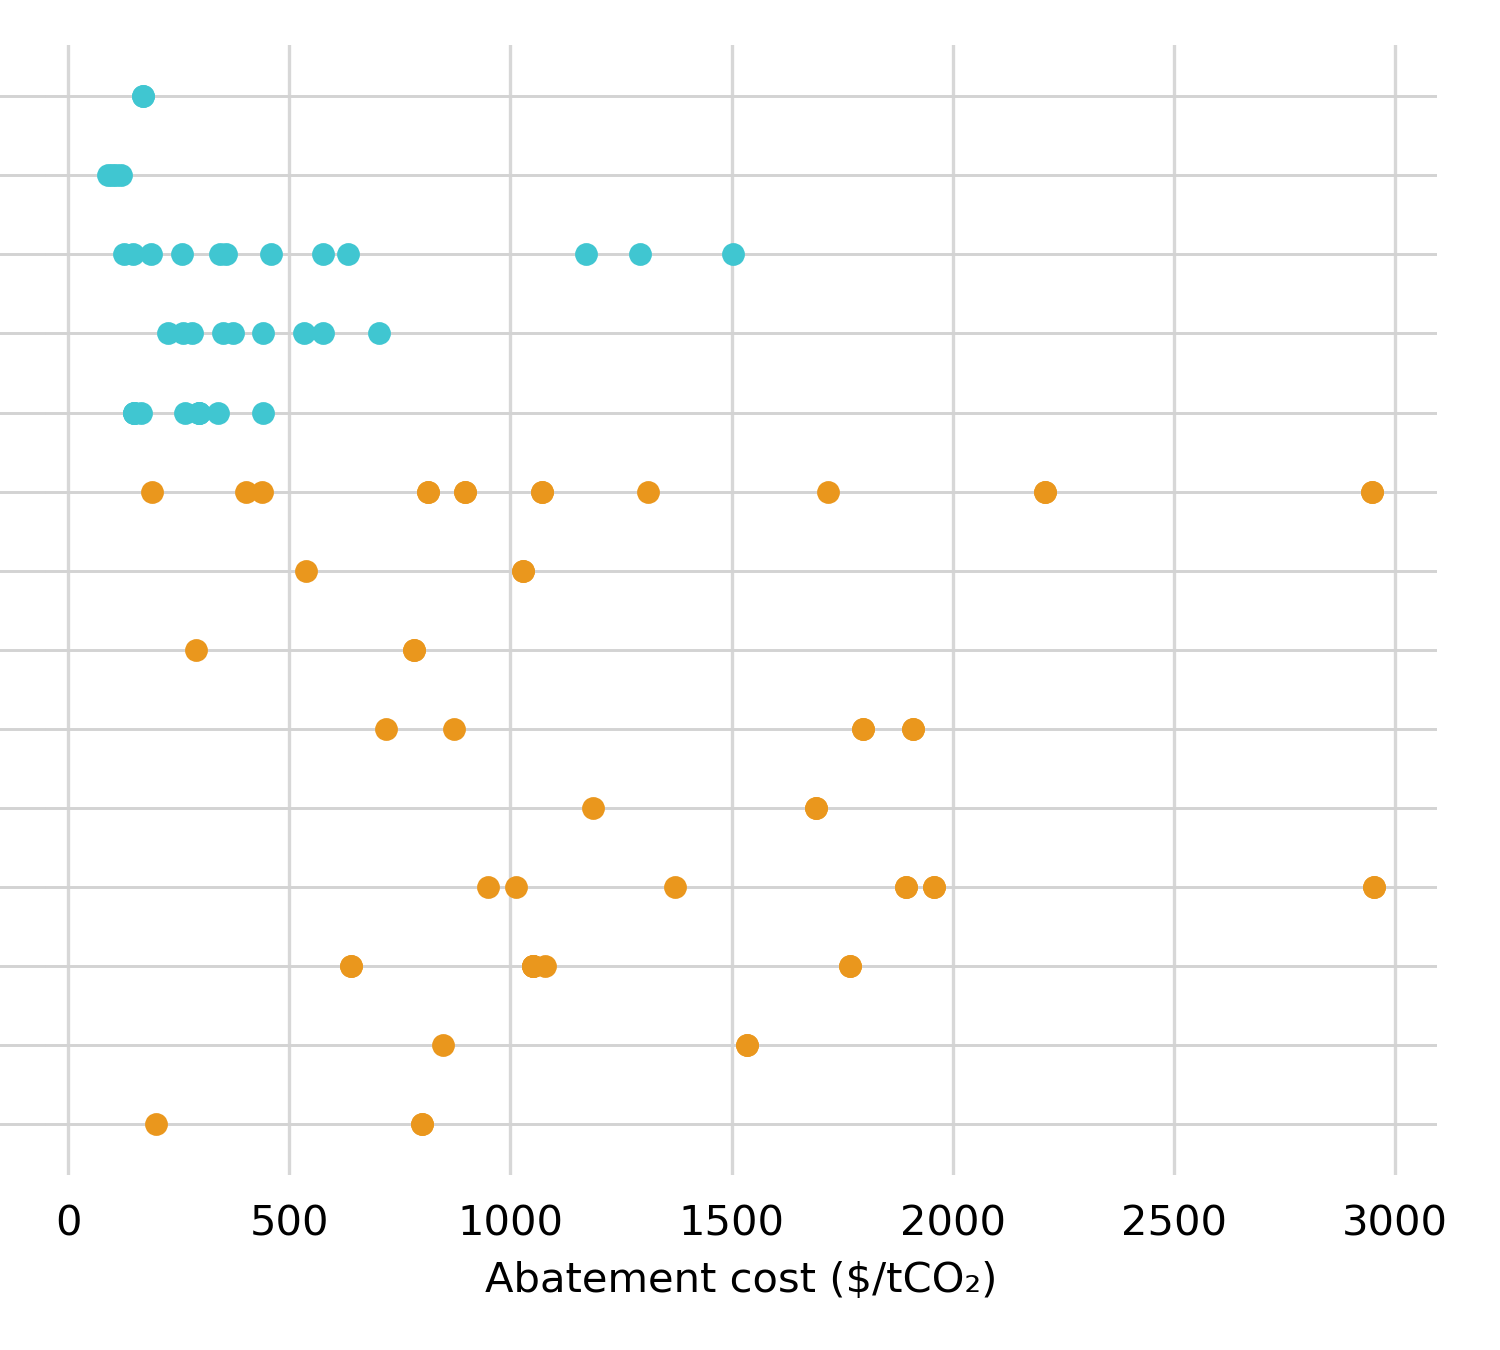
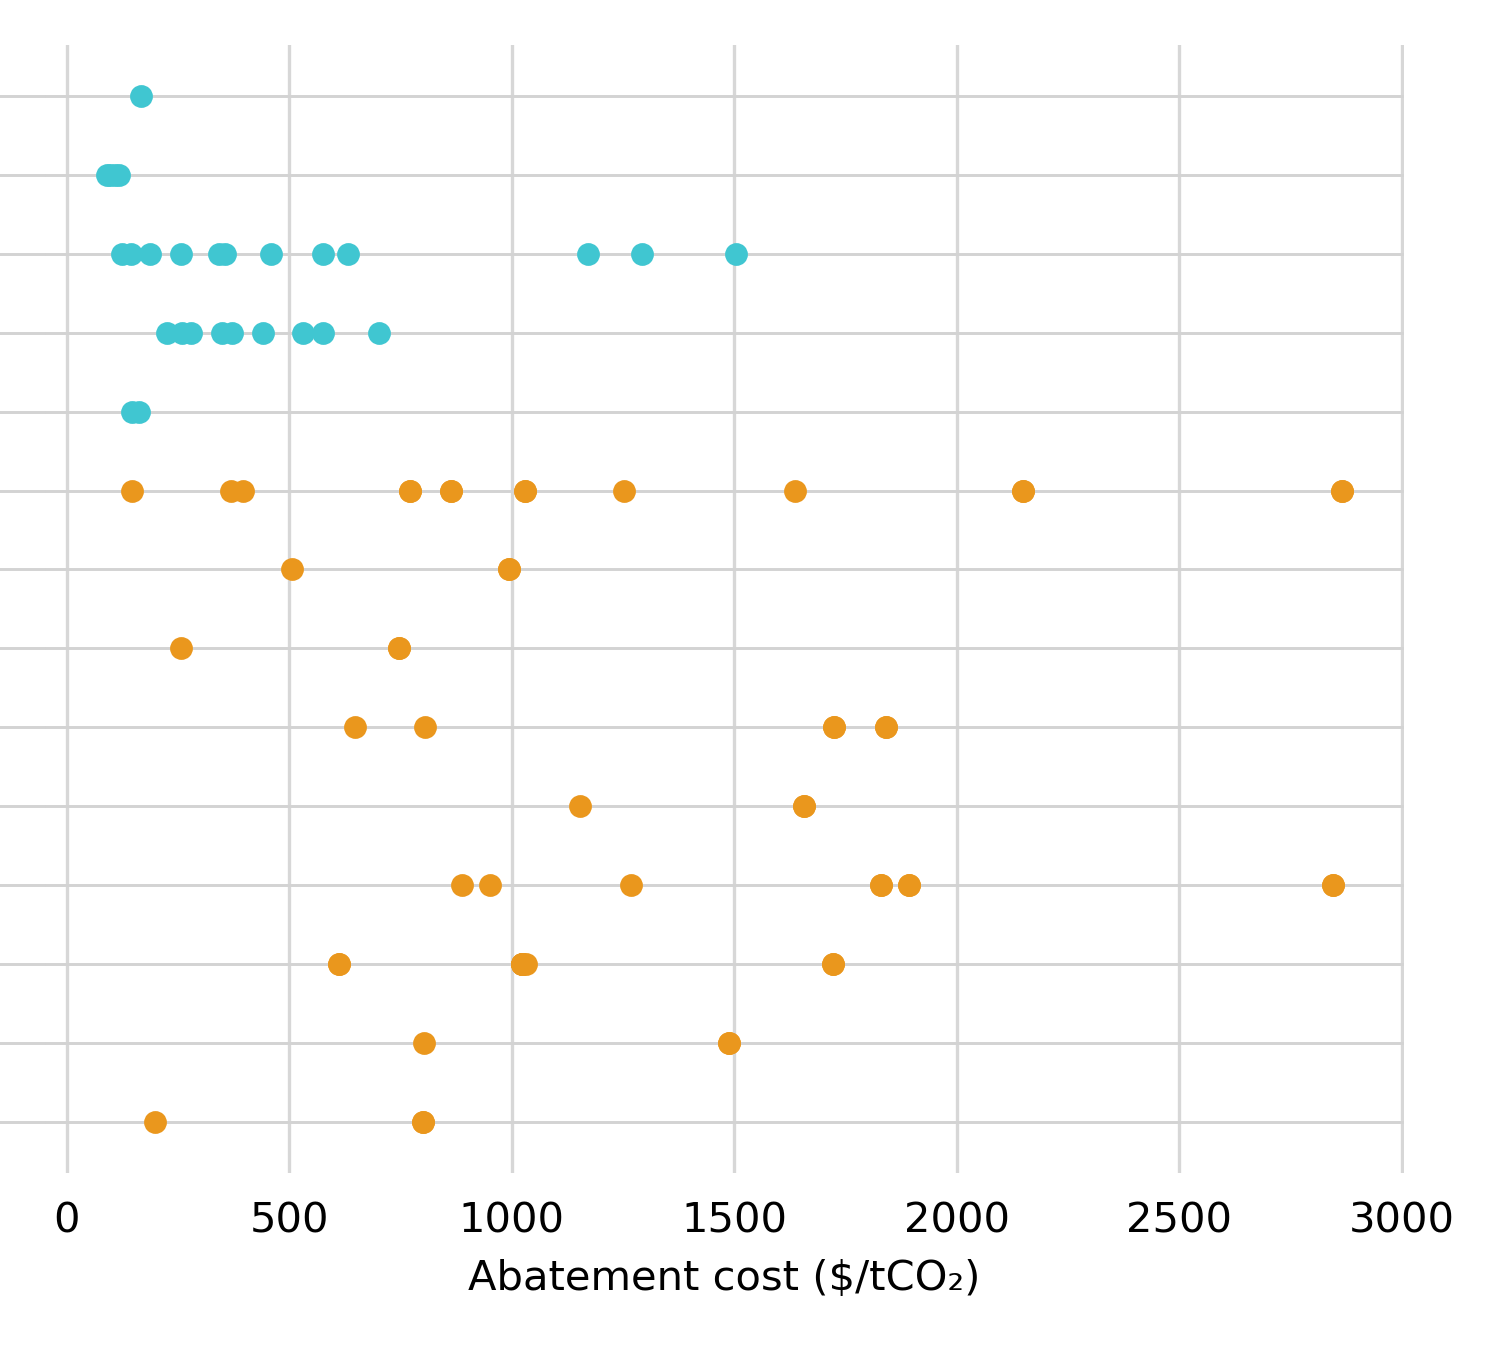
Updated violin plot

diff --git a/code/fig1.py b/code/fig1.py
@@ -15,7 +15,7 @@ daccs_df.columns = daccs_df.columns.str.strip()
 studies_to_keep_daccs = ["Young et al. 2023", "Sievert et al. 2024", "Fasihi et al. 2019", "Keith et al. 2018", "Pett-Ridge et al. 2024"]
 daccs_df = daccs_df[daccs_df['Reference'].isin(studies_to_keep_daccs)]
 daccs_df.loc[daccs_df['Year of Assumptions in Study'] < 2025, "Term"] = "Short Term"
-daccs_df.loc[daccs_df['Year of Assumptions in Study'] >= 2025, "Term"] = "Long Term"
+daccs_df.loc[daccs_df['Year of Assumptions in Study'] == 2050, "Term"] = "Long Term"
 
 synfuels_df_med = pd.read_excel("./data/Master Standardisation_SAF_Default.xlsx", sheet_name="Standardization Results")
 synfuels_df_high = pd.read_excel("./data/Master Standardisation_SAF_Default.xlsx", sheet_name="High CO2")
@@ -41,6 +41,7 @@ synfuels_df = pd.concat([synfuels_df_med, synfuels_df_high, synfuels_df_low])
 # Filter Long Term
 daccs_df_2050 = daccs_df[daccs_df["Term"] == "Long Term"].rename(columns={"Fully Harmonized NET REMOVED COST (incl T&S": "Fully Harmonized"})
 daccs_df_2050["Tech"] = "DACCS"
+daccs_df_2050 = daccs_df_2050.drop_duplicates(subset=["Fully Harmonized"])
 synfuels_df_2050 = synfuels_df[synfuels_df["Term"] == "Long Term"]
 synfuels_df_2050["Tech"] = "SAF"
 

diff --git a/code/main.py b/code/main.py
@@ -918,7 +918,7 @@ hydrotreatment_options = [
     {"Fossil": False, "SAF": False},
     {"Fossil": True, "SAF": False},
 ]
-so2_abatement_options = [False]
+so2_abatement_options = [True]
 
 
 if RUN_SENSITIVITES:
